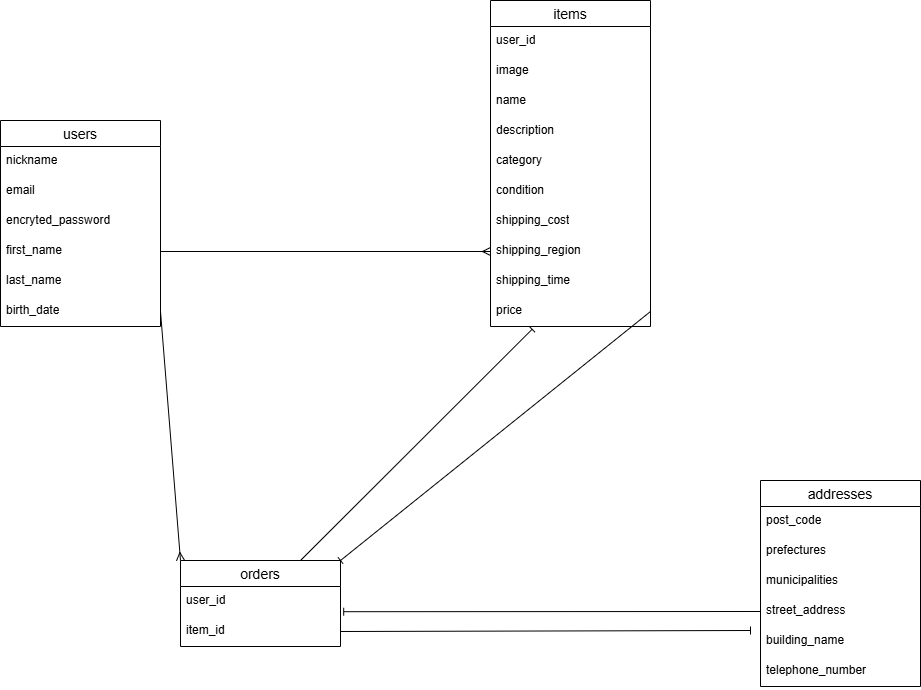
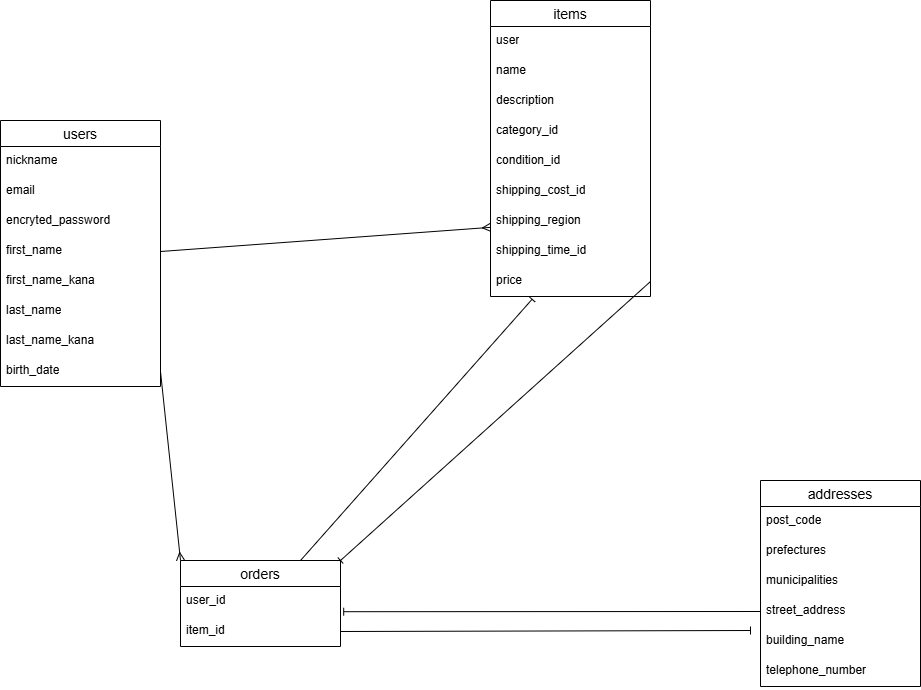
データベース設計修正

diff --git a/README.md b/README.md
@@ -6,7 +6,9 @@
 |email           |string|unique: true, null: false|
 |encrypted_password|string|null: false|
 |first_name        |string|null: false|
+|first_name_kana   |string|null: false|
 |last_name         |string|null: false|
+|last_name_kana    |string|null: false|
 |birth_date        |date  |null: false|
 
 
@@ -16,18 +18,17 @@ has_many :orders
 
 ## items
 
-|Column         |Type      |Options    |
-|---------------|----------|-----------|
-|image          |string    |null: false|
-|name           |string    |null: false|
-|description    |text      |null: false|
-|category       |string    |null: false|
-|condition      |string    |null: false|
-|shipping_cost  |integer   |null: false|
-|shipping_region|string    |null: false|
-|shipping_time  |string    |null: false|
-|price          |integer   |null: false|
-|user           |references|null: false, foreign_key|
+|Column            |Type      |Options    |
+|------------------|----------|-----------|
+|name              |string    |null: false|
+|description       |text      |null: false|
+|category_id       |string    |null: false|
+|condition_id      |string    |null: false|
+|shipping_cost_id  |integer   |null: false|
+|shipping_region_id|string    |null: false|
+|shipping_time_id  |string    |null: false|
+|price             |integer   |null: false|
+|user              |references|null: false, foreign_key: true|
 
 
 ### Association
@@ -38,13 +39,13 @@ has_one :order
 
 |Column |Type      |Options                |
 |-------|----------|-----------------------|
-|user   |references|null:false, foreign_key|
-|item   |references|null:false, foreign_key|
+|user   |references|null: false, foreign_key: true|
+|item   |references|null: false, foreign_key: true|
 
 ### Association
 belongs_to :user
 belongs_to :item
-belongs_to :address
+has_one :address
 
 ## addresses
 
@@ -54,9 +55,10 @@ belongs_to :address
 |prefectures     |string|null: false   |
 |municipalities  |string|null: false   |
 |street_address  |string|null: false   |
-|building_name   |string|optional: true|
+|building_name   |string|              |
 |telephone_number|string|null: false   |
+|user            |references|null: false, foreign_key: true|
 
 
 ### Association
-has_many :orders
+belongs_to :order
